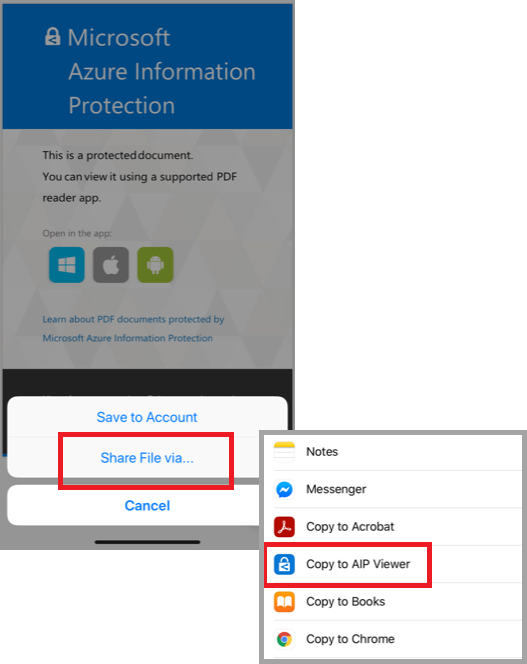
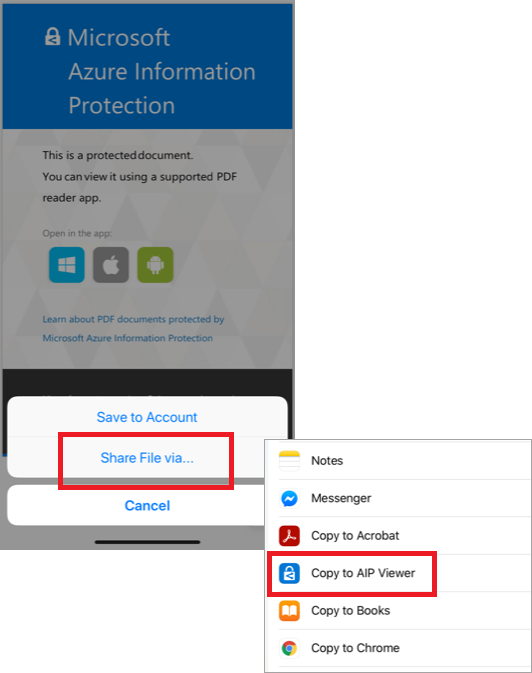
image updates

Changed region(s): [[0.0, 0.0, 1.0, 1.0], [0.0607, 0.2108, 0.4554, 0.512], [0.0911, 0.0301, 0.4858, 0.1807]]

diff --git a/Azure-RMSDocs/rms-client/mobile-app-faq.md b/Azure-RMSDocs/rms-client/mobile-app-faq.md
@@ -71,7 +71,7 @@ Once you've [installed the AIP mobile app](#download-and-install-the-aip-app-for
 
     For example:
 
-    :::image type="content" source="../media/ios-share-to-aip-viewer.png" alt-text="Share to AIP Viewer in iOS":::
+    :::image type="content" source="../media/ios-share-to-aip-viewer.png" alt-text="Share to AIP Viewer in iOS" border="false":::
 
 1. Sign in, or select a certificate as prompted.
 
